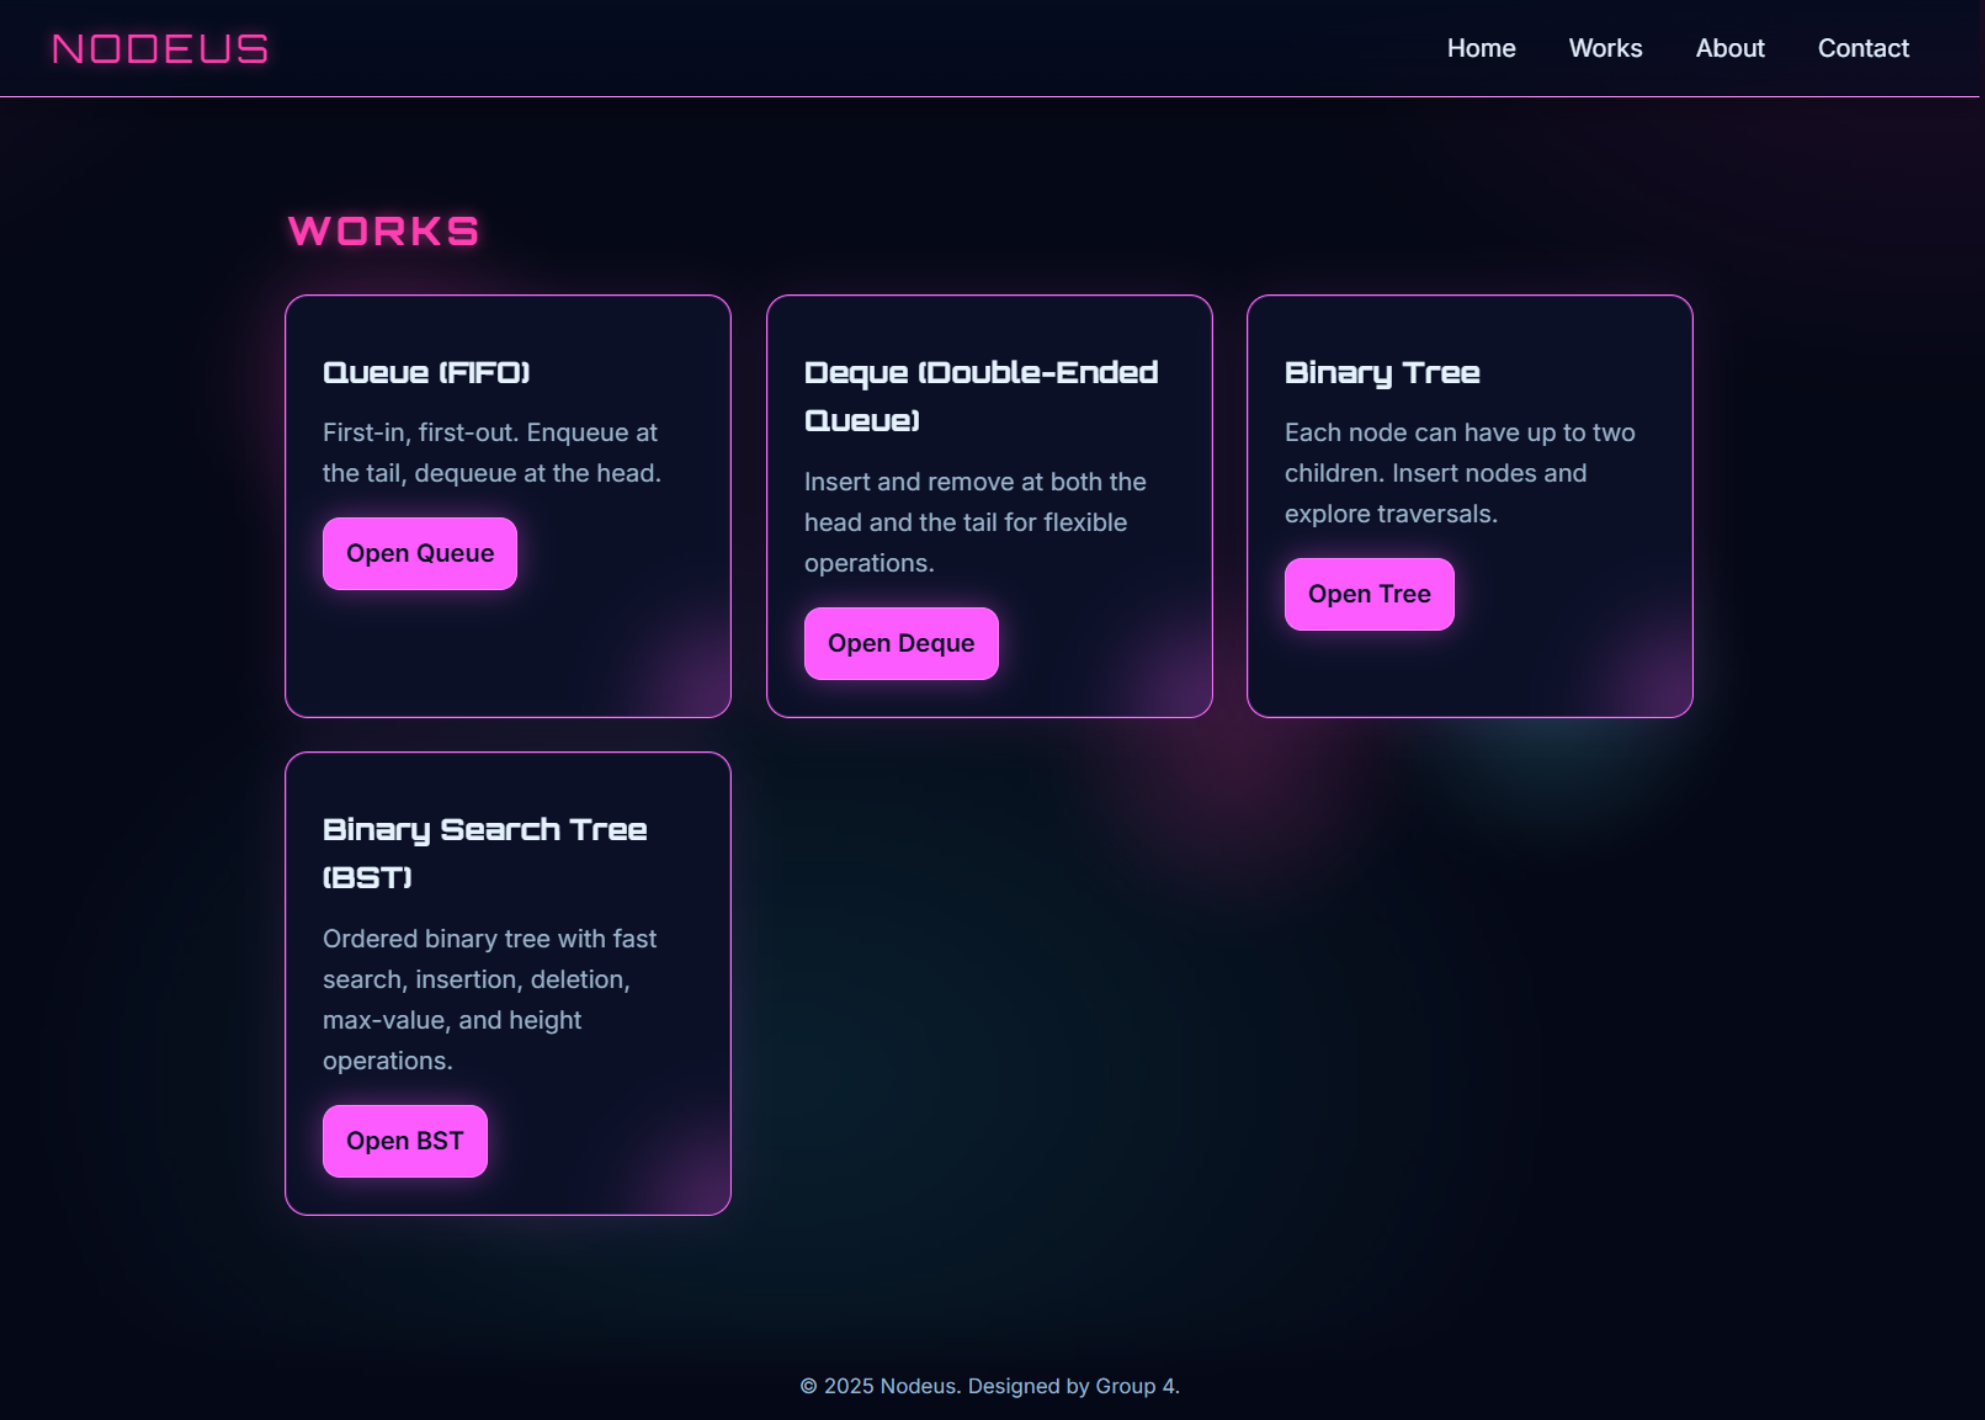
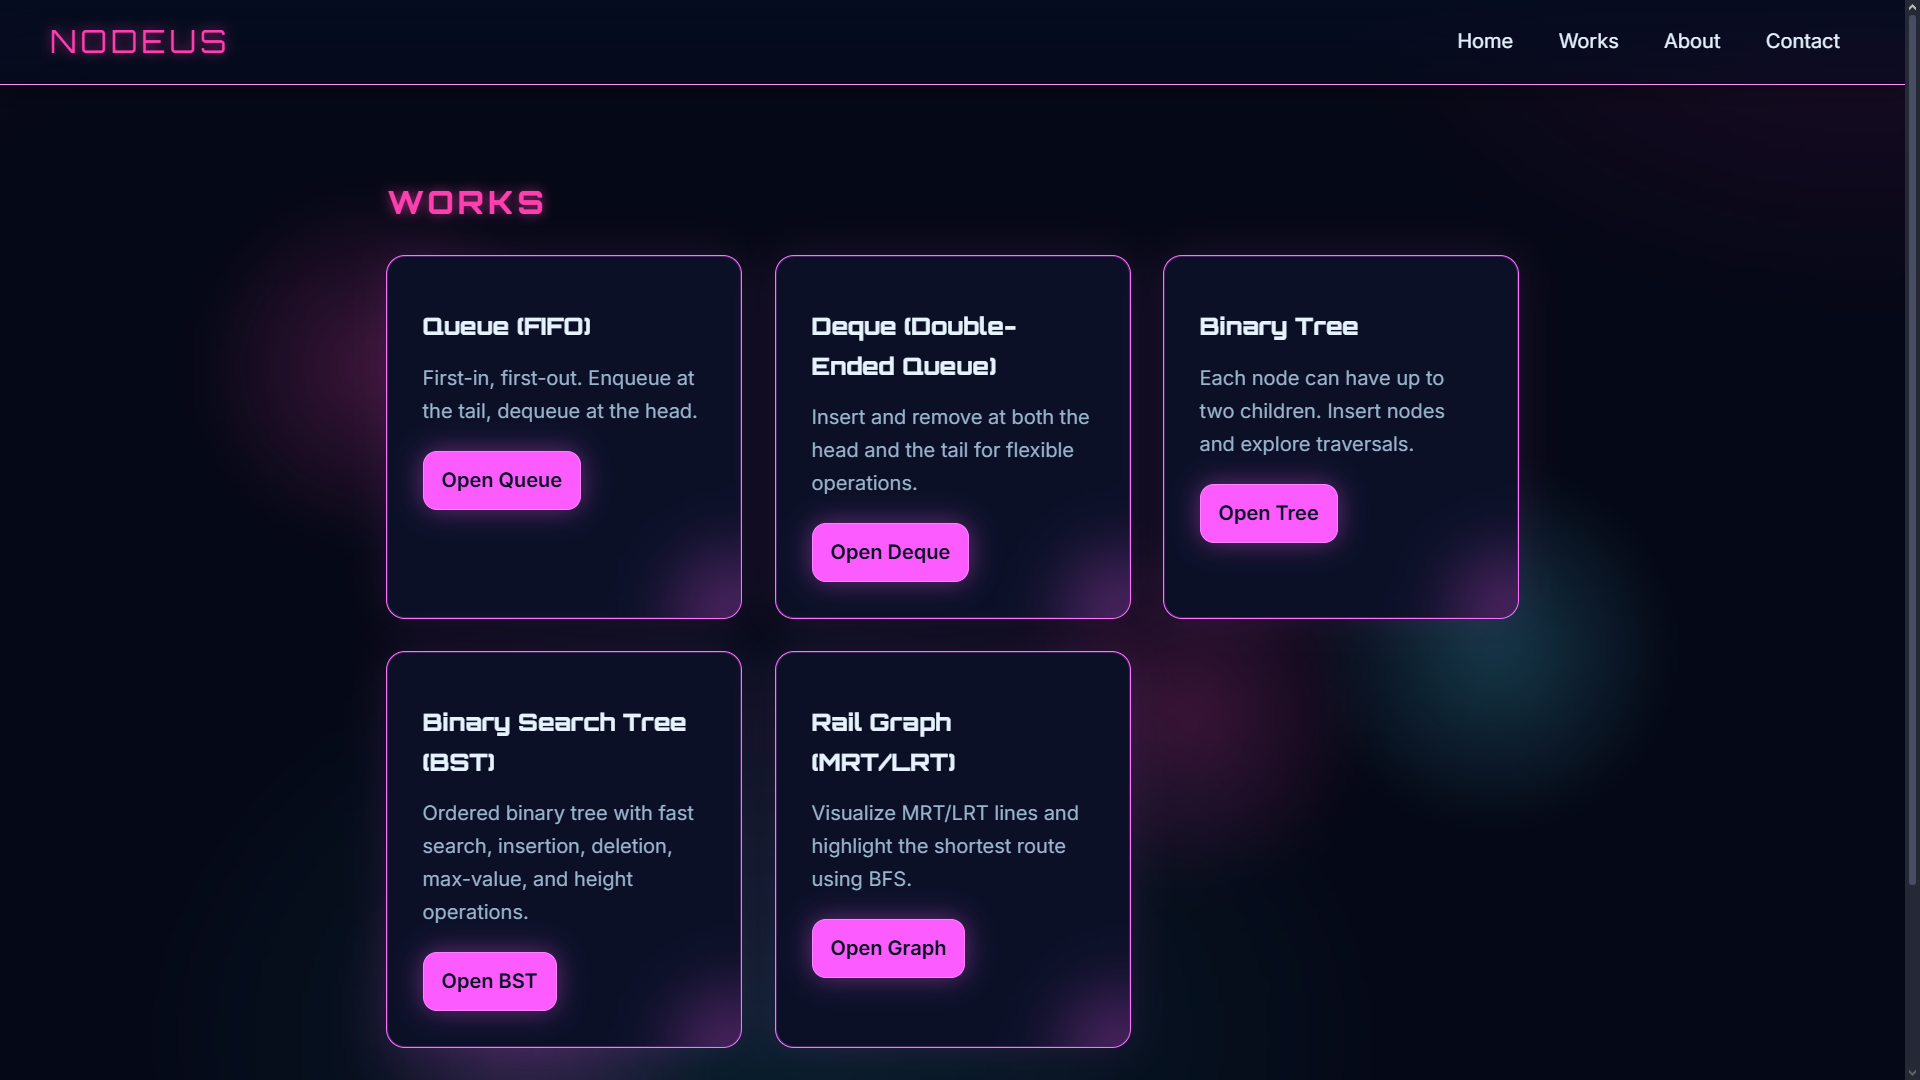
Updated README
Updated the works page image and added the image for the rail graph

diff --git a/README.md b/README.md
@@ -25,8 +25,9 @@ DSA_Group4_LabExercise6/
 │   ├── index.html
 │   ├── queue.html
 │   ├── tree.html
-│   └── works.html
-│   └── bst.html
+│   ├── works.html
+│   ├── bst.html
+    └── graph.html
 ├── .gitignore
 ├── LICENSE
 ├── README.md
@@ -62,5 +63,8 @@ DSA_Group4_LabExercise6/
 
 ### **Binary Search Tree**
 ![Binary Tree](./static/pages/binary-search-tree.png)
+
+### **Rail Graph**
+![Rail Graph](./static/pages/rail-graph.png)
 
 <img width="100%" src="https://capsule-render.vercel.app/api?type=waving&color=gradient&section=footer"/>
